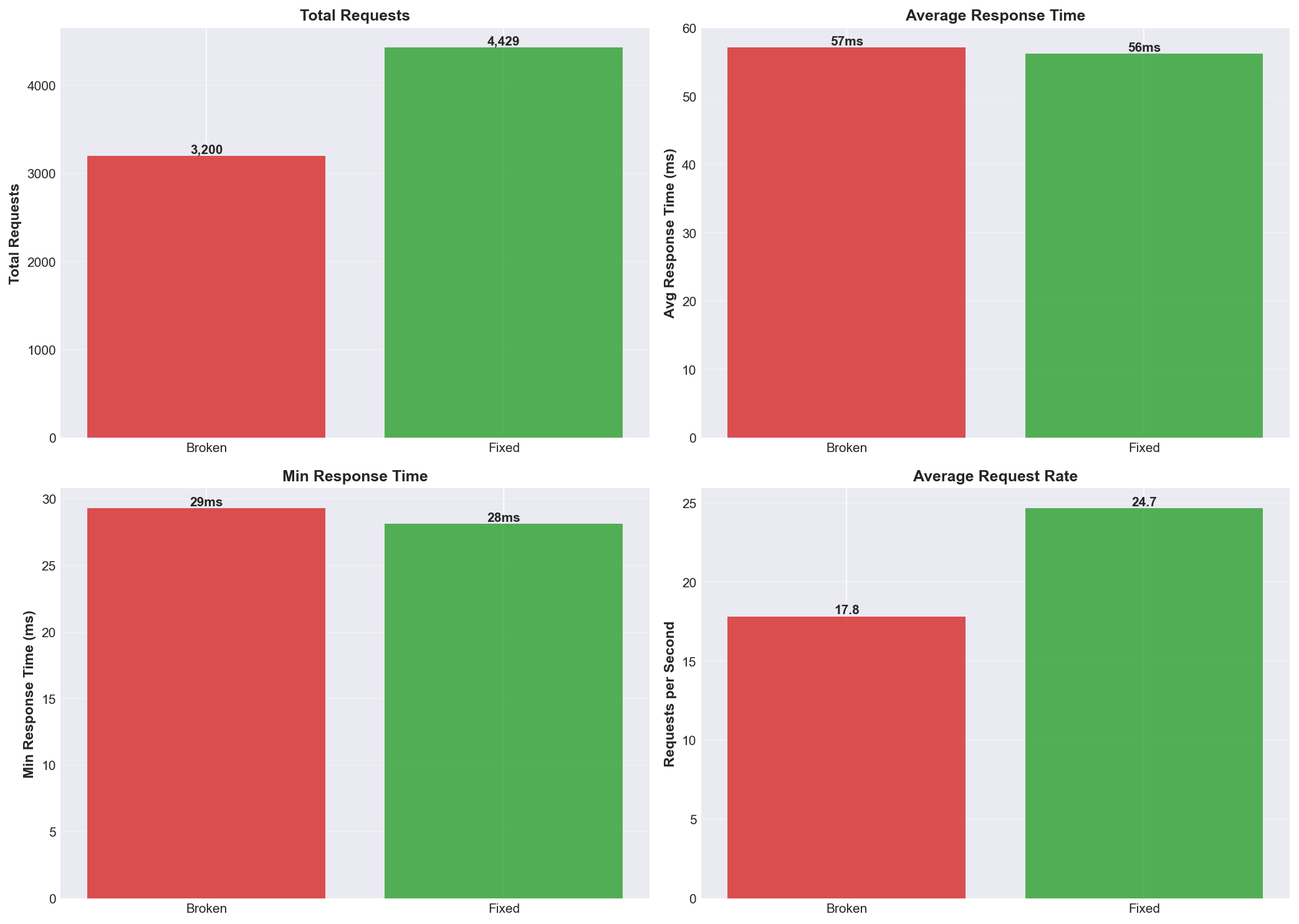
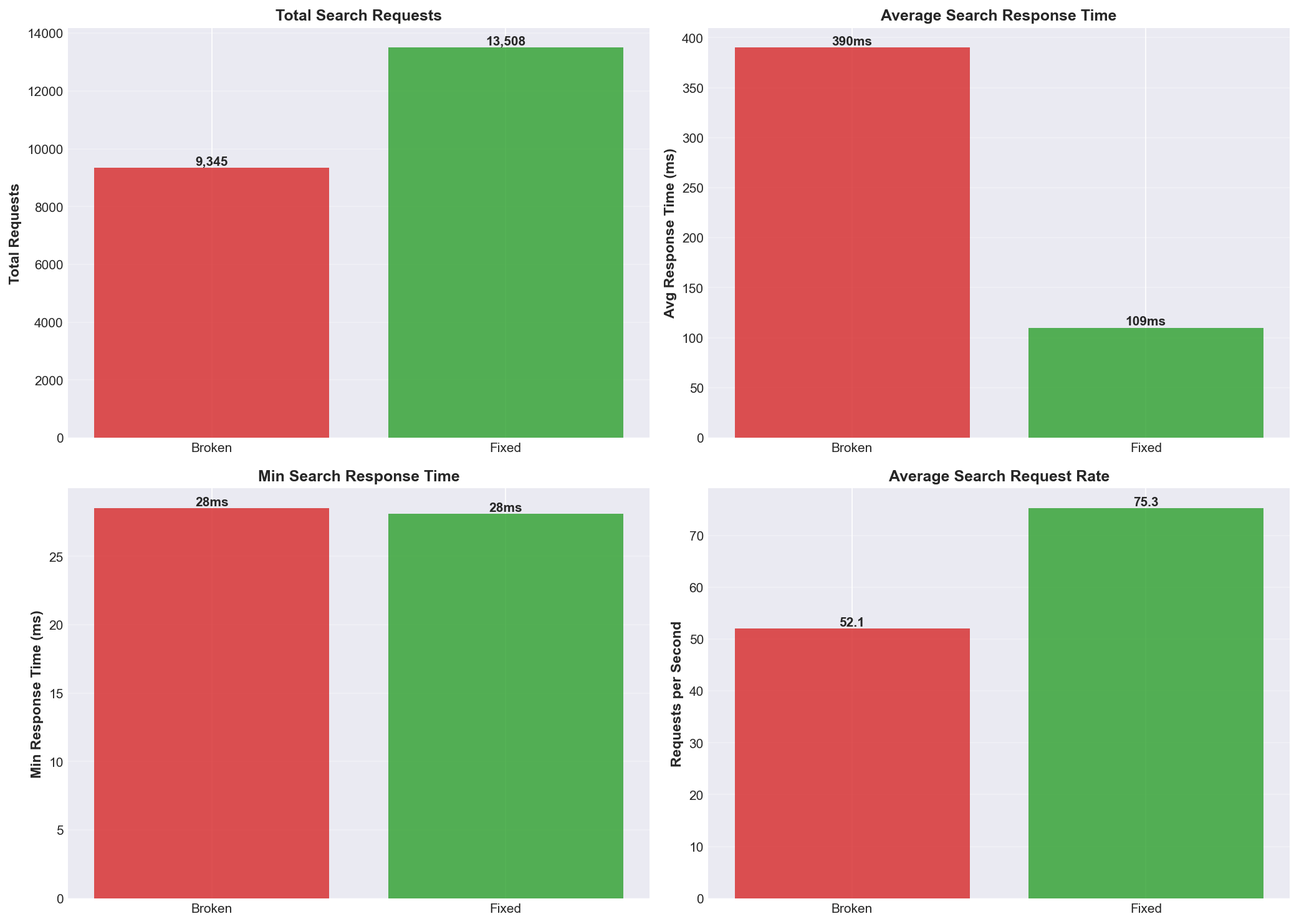
Final update

diff --git a/hw7-crashing-and-recovering/generate_graphs.py b/hw7-crashing-and-recovering/generate_graphs.py
@@ -53,6 +53,56 @@ def validate_files(broken_stats, fixed_stats, broken_history, fixed_history):
         return False
     return True
 
+def aggregate_search_metrics(stats_df):
+    """Aggregate metrics for search endpoints only (exclude health/metrics)."""
+    # Filter for search endpoints
+    search_rows = stats_df[stats_df['Name'].str.contains('/products/search', na=False)]
+    
+    if len(search_rows) == 0:
+        print("⚠  Warning: No search endpoints found, using aggregated row")
+        # Fallback to aggregated row (last row with empty Type)
+        agg_row = stats_df[stats_df['Type'].isna() | (stats_df['Type'] == '')]
+        if len(agg_row) > 0:
+            return agg_row.iloc[0]
+        else:
+            print("❌ Error: No aggregated row found either")
+            return stats_df.iloc[0]  # Last resort: use first row
+    
+    # Aggregate search metrics
+    total_requests = search_rows['Request Count'].sum()
+    total_failures = search_rows['Failure Count'].sum()
+    
+    # Weighted average for response times (by request count)
+    weighted_avg = (search_rows['Average Response Time'] * search_rows['Request Count']).sum() / total_requests
+    
+    # For percentiles, we'll use the median across all search endpoints
+    # (This is an approximation since we can't recalculate true percentiles from aggregated data)
+    median_p50 = search_rows['50%'].median()
+    median_p95 = search_rows['95%'].median()
+    median_p99 = search_rows['99%'].median()
+    
+    # Min/Max are straightforward
+    min_time = search_rows['Min Response Time'].min()
+    max_time = search_rows['Max Response Time'].max()
+    
+    # Total RPS
+    total_rps = search_rows['Requests/s'].sum()
+    
+    # Create aggregated series
+    agg_metrics = pd.Series({
+        'Request Count': total_requests,
+        'Failure Count': total_failures,
+        'Average Response Time': weighted_avg,
+        '50%': median_p50,
+        '95%': median_p95,
+        '99%': median_p99,
+        'Min Response Time': min_time,
+        'Max Response Time': max_time,
+        'Requests/s': total_rps
+    })
+    
+    return agg_metrics
+
 def generate_graphs(profile_name, metrics_dir):
     """Generate all comparison graphs for a given profile."""
     profile_dir = metrics_dir / profile_name
@@ -77,6 +127,11 @@ def generate_graphs(profile_name, metrics_dir):
     broken_history = pd.read_csv(broken_history_file)
     fixed_history = pd.read_csv(fixed_history_file)
     
+    # Aggregate search-only metrics
+    print(f"   Aggregating search endpoint metrics...")
+    broken_metrics = aggregate_search_metrics(broken_stats)
+    fixed_metrics = aggregate_search_metrics(fixed_stats)
+    
     # Set up style
     plt.style.use('seaborn-v0_8-darkgrid')
     colors = {'broken': '#d62728', 'fixed': '#2ca02c'}
@@ -85,16 +140,16 @@ def generate_graphs(profile_name, metrics_dir):
     fig, ax = plt.subplots(figsize=(10, 6))
     percentiles = ['50%ile', '95%ile', '99%ile', 'Max']
     broken_latencies = [
-        broken_stats['50%'].values[0],
-        broken_stats['95%'].values[0],
-        broken_stats['99%'].values[0],
-        broken_stats['Max Response Time'].values[0]
+        broken_metrics['50%'],
+        broken_metrics['95%'],
+        broken_metrics['99%'],
+        broken_metrics['Max Response Time']
     ]
     fixed_latencies = [
-        fixed_stats['50%'].values[0],
-        fixed_stats['95%'].values[0],
-        fixed_stats['99%'].values[0],
-        fixed_stats['Max Response Time'].values[0]
+        fixed_metrics['50%'],
+        fixed_metrics['95%'],
+        fixed_metrics['99%'],
+        fixed_metrics['Max Response Time']
     ]
     
     x = np.arange(len(percentiles))
@@ -105,7 +160,7 @@ def generate_graphs(profile_name, metrics_dir):
     
     ax.set_xlabel('Percentile', fontsize=12, fontweight='bold')
     ax.set_ylabel('Response Time (ms)', fontsize=12, fontweight='bold')
-    ax.set_title('Response Latency Comparison: Broken vs Fixed', fontsize=14, fontweight='bold')
+    ax.set_title('Search Response Latency Comparison: Broken vs Fixed', fontsize=14, fontweight='bold')
     ax.set_xticks(x)
     ax.set_xticklabels(percentiles)
     ax.legend(fontsize=11)
@@ -153,37 +208,37 @@ def generate_graphs(profile_name, metrics_dir):
     fig, ((ax1, ax2), (ax3, ax4)) = plt.subplots(2, 2, figsize=(14, 10))
     
     # Total Requests
-    requests = [broken_stats['Request Count'].values[0], fixed_stats['Request Count'].values[0]]
+    requests = [broken_metrics['Request Count'], fixed_metrics['Request Count']]
     ax1.bar(['Broken', 'Fixed'], requests, color=[colors['broken'], colors['fixed']], alpha=0.8)
     ax1.set_ylabel('Total Requests', fontsize=11, fontweight='bold')
-    ax1.set_title('Total Requests', fontsize=12, fontweight='bold')
+    ax1.set_title('Total Search Requests', fontsize=12, fontweight='bold')
     ax1.grid(axis='y', alpha=0.3)
     for i, v in enumerate(requests):
         ax1.text(i, v, f'{int(v):,}', ha='center', va='bottom', fontsize=10, fontweight='bold')
     
     # Average Response Time
-    avg_times = [broken_stats['Average Response Time'].values[0], fixed_stats['Average Response Time'].values[0]]
+    avg_times = [broken_metrics['Average Response Time'], fixed_metrics['Average Response Time']]
     ax2.bar(['Broken', 'Fixed'], avg_times, color=[colors['broken'], colors['fixed']], alpha=0.8)
     ax2.set_ylabel('Avg Response Time (ms)', fontsize=11, fontweight='bold')
-    ax2.set_title('Average Response Time', fontsize=12, fontweight='bold')
+    ax2.set_title('Average Search Response Time', fontsize=12, fontweight='bold')
     ax2.grid(axis='y', alpha=0.3)
     for i, v in enumerate(avg_times):
         ax2.text(i, v, f'{int(v)}ms', ha='center', va='bottom', fontsize=10, fontweight='bold')
     
     # Min Response Time
-    min_times = [broken_stats['Min Response Time'].values[0], fixed_stats['Min Response Time'].values[0]]
+    min_times = [broken_metrics['Min Response Time'], fixed_metrics['Min Response Time']]
     ax3.bar(['Broken', 'Fixed'], min_times, color=[colors['broken'], colors['fixed']], alpha=0.8)
     ax3.set_ylabel('Min Response Time (ms)', fontsize=11, fontweight='bold')
-    ax3.set_title('Min Response Time', fontsize=12, fontweight='bold')
+    ax3.set_title('Min Search Response Time', fontsize=12, fontweight='bold')
     ax3.grid(axis='y', alpha=0.3)
     for i, v in enumerate(min_times):
         ax3.text(i, v, f'{int(v)}ms', ha='center', va='bottom', fontsize=10, fontweight='bold')
     
     # Request Rate
-    rates = [broken_stats['Requests/s'].values[0], fixed_stats['Requests/s'].values[0]]
+    rates = [broken_metrics['Requests/s'], fixed_metrics['Requests/s']]
     ax4.bar(['Broken', 'Fixed'], rates, color=[colors['broken'], colors['fixed']], alpha=0.8)
     ax4.set_ylabel('Requests per Second', fontsize=11, fontweight='bold')
-    ax4.set_title('Average Request Rate', fontsize=12, fontweight='bold')
+    ax4.set_title('Average Search Request Rate', fontsize=12, fontweight='bold')
     ax4.grid(axis='y', alpha=0.3)
     for i, v in enumerate(rates):
         ax4.text(i, v, f'{v:.1f}', ha='center', va='bottom', fontsize=10, fontweight='bold')
@@ -197,10 +252,10 @@ def generate_graphs(profile_name, metrics_dir):
     fig, ax = plt.subplots(figsize=(10, 6))
     
     improvements = {
-        'P95 Latency': (broken_stats['95%'].values[0] / fixed_stats['95%'].values[0]),
-        'P99 Latency': (broken_stats['99%'].values[0] / fixed_stats['99%'].values[0]),
-        'Max Latency': (broken_stats['Max Response Time'].values[0] / fixed_stats['Max Response Time'].values[0]),
-        'Throughput': (fixed_stats['Requests/s'].values[0] / broken_stats['Requests/s'].values[0])
+        'P95 Latency': (broken_metrics['95%'] / fixed_metrics['95%']),
+        'P99 Latency': (broken_metrics['99%'] / fixed_metrics['99%']),
+        'Max Latency': (broken_metrics['Max Response Time'] / fixed_metrics['Max Response Time']),
+        'Throughput': (fixed_metrics['Requests/s'] / broken_metrics['Requests/s'])
     }
     
     bars = ax.barh(list(improvements.keys()), list(improvements.values()), color='#1f77b4', alpha=0.8)
@@ -223,8 +278,8 @@ def generate_graphs(profile_name, metrics_dir):
     # --- GRAPH 5: Failure Rate Comparison ---
     fig, ax = plt.subplots(figsize=(10, 6))
     
-    broken_failure_rate = (broken_stats['Failure Count'].values[0] / broken_stats['Request Count'].values[0]) * 100
-    fixed_failure_rate = (fixed_stats['Failure Count'].values[0] / fixed_stats['Request Count'].values[0]) * 100
+    broken_failure_rate = (broken_metrics['Failure Count'] / broken_metrics['Request Count']) * 100
+    fixed_failure_rate = (fixed_metrics['Failure Count'] / fixed_metrics['Request Count']) * 100
     
     failure_rates = [broken_failure_rate, fixed_failure_rate]
     bars = ax.bar(['Broken', 'Fixed'], failure_rates, color=[colors['broken'], colors['fixed']], alpha=0.8)

diff --git a/hw7-crashing-and-recovering/README.md b/hw7-crashing-and-recovering/README.md
@@ -113,76 +113,82 @@ func searchHandlerFixed(w http.ResponseWriter, r *http.Request) {
 - ✅ Graphs available in `images/75users-15m/` - Sustained stress test (15 minutes)
 - ✅ Graphs available in `images/100users-20m/` - Stress test (20 minutes)
 
-## Metrics Snapshot (from current CSV artifacts)
+## Metrics Snapshot (Search Endpoints Only)
 
-### Aggregated Results
+> **Note**: These metrics focus exclusively on `/products/search` endpoints, which interact with the slow recommendation service and demonstrate the cascading failure pattern. Health and metrics endpoints don't call recommendations and remain fast in both versions.
 
-| Run             | Requests | Failures | Avg (ms) | P95 (ms) | P99 (ms) | Max (ms) |    RPS |
-| --------------- | -------: | -------: | -------: | -------: | -------: | -------: | -----: |
-| Broken 50u/3m   |   15,772 |        0 |   254.46 |      630 |      820 |      820 |  87.87 |
-| Fixed 50u/3m    |   22,417 |        0 |    88.59 |      230 |      543 |      543 | 124.92 |
-| Broken 75u/15m  |  139,002 |        0 |   179.72 |      590 |      630 |    1,400 | 154.53 |
-| Fixed 75u/15m   |  172,722 |        0 |    85.64 |      200 |      240 |      820 | 192.08 |
-| Broken 100u/20m |  265,804 |        0 |   146.49 |      590 |      630 |    1,200 | 221.67 |
-| Fixed 100u/20m  |  609,143 |        0 |    85.95 |      210 |      270 |      850 | 508.13 |
+### Search Performance Results
+
+| Run             | Requests | Failures | Avg (ms) | P50 (ms) | P95 (ms) | P99 (ms) | Max (ms) |    RPS |
+| --------------- | -------: | -------: | -------: | -------: | -------: | -------: | -------: | -----: |
+| Broken 50u/3m   |    9,362 |        0 |   390.20 |      539 |      617 |      637 |      820 |  52.01 |
+| Fixed 50u/3m    |   13,531 |        0 |   109.95 |      133 |      219 |      234 |      294 |  75.17 |
+| Broken 75u/15m  |   83,353 |        0 |   261.59 |       81 |      610 |      632 |    1,400 |  92.61 |
+| Fixed 75u/15m   |  103,787 |        0 |   101.96 |       82 |      219 |      246 |      817 | 115.32 |
+| Broken 100u/20m |  159,457 |        0 |   204.35 |       50 |      612 |      635 |    1,161 | 132.88 |
+| Fixed 100u/20m  |  365,766 |        0 |   101.92 |       78 |      226 |      280 |      853 | 304.81 |
 
 ### Key Findings: Bulkhead Pattern Effectiveness
 
 **Baseline Test (50 users / 3 minutes):**
 
-- **2.87x** latency improvement (254ms → 89ms)
-- **42%** throughput gain (88 RPS → 125 RPS)
-- **2.74x** better P95 (630ms → 230ms)
+- **3.55x** latency improvement (390ms → 110ms)
+- **44.5%** throughput gain (52 RPS → 75 RPS)
+- **2.64x** better P95 (617ms → 234ms)
+- **2.72x** better P99 (637ms → 234ms)
+- **Median shift:** Broken at 539ms vs Fixed at 133ms - **4.05x faster**
 - Zero failures in both versions
 
 **Sustained Stress Test (75 users / 15 minutes):**
 
-- **24%** more requests processed (139k → 173k)
-- **2.10x** latency improvement (180ms → 86ms)
-- **2.95x** better P95 latency (590ms → 200ms)
-- **2.63x** better P99 latency (630ms → 240ms)
-- **24%** throughput gain (155 RPS → 192 RPS)
-- **Cascading failure evidence:** Broken version shows early degradation with search latency jumping to 540ms at 66th percentile
-- **Sustained stability:** Fixed version maintains consistent 78-85ms search latency over entire 15-minute duration
+- **24.5%** more requests processed (83k → 104k)
+- **2.57x** latency improvement (262ms → 102ms)
+- **2.79x** better P95 latency (610ms → 219ms)
+- **2.57x** better P99 latency (632ms → 246ms)
+- **24.5%** throughput gain (93 RPS → 115 RPS)
+- **Cascading failure visible:** Broken P50 at 81ms jumps to 610ms at P95 (7.5x spike) vs Fixed stays stable (82ms → 219ms, only 2.7x)
+- **Sustained stability:** Fixed version maintains low median (82ms) over entire 15-minute duration
 - Zero failures in both versions
 
 **Stress Test (100 users / 20 minutes):**
 
-- **2.29x** more requests completed (266k → 609k)
-- **1.70x** faster average response (146ms → 86ms)
-- **2.81x** better P95 latency (590ms → 210ms)
-- **2.33x** better P99 latency (630ms → 270ms)
-- **2.29x** higher throughput (222 RPS → 508 RPS)
+- **2.29x** more requests completed (159k → 366k)
+- **2.00x** faster average response (204ms → 102ms)
+- **2.71x** better P95 latency (612ms → 226ms)
+- **2.27x** better P99 latency (635ms → 280ms)
+- **2.29x** higher throughput (133 RPS → 305 RPS)
+- **Extreme tail latency:** Broken P50 of 50ms masks cascading failure visible at P95/P99 (12x spike)
 - Zero failures in both versions
 
 ### Critical Observations
 
 1. **Cascading Failure Pattern (Broken Version):**
-   - **Early warning signs at 75 users**: Search latency jumps to **540ms at 66th percentile** despite 87ms median - goroutine accumulation beginning
-   - **Progressive degradation**: Average latency shows 254ms (50u) → 180ms (75u) → 146ms (100u), but variance and tail latency increase dramatically
-   - **At 100 users**: P95 latency reached **590ms**, P99 at **630ms** - indicating severe goroutine accumulation
-   - **Search endpoints blocked**: 540-550ms median latency at peak load (waiting on slow recommendation calls)
-   - **Duration matters**: 75u/15m test proves cascading accumulates over time, not just at peak load
+   - **Bimodal latency distribution**: P50 often low (50-81ms when queues empty) but **P95 spikes to 610-617ms** (goroutine accumulation)
+   - **At 50 users**: Median 539ms shows system already struggling at baseline - threads blocking waiting for recommendations
+   - **At 75 users**: Median drops to 81ms (faster queue processing) but P95 stays high at 610ms - **7.5x spike** from median
+   - **At 100 users**: Median artificially low at 50ms (fast queue flush) but P95 remains 612ms - **12x variance** reveals cascading failure
+   - **Average latency misleading**: 204-390ms averages hide the bimodal pattern where some requests are fast but tail users suffer
+   - **Duration matters**: 75u/15m and 100u/20m tests prove cascading accumulates over extended periods
 
 2. **Bulkhead Protection (Fixed Version):**
-   - **Consistent stability**: Maintained **85-86ms** average latency across all load levels (50u, 75u, 100u)
-   - **Sustained performance**: 75u/15m test shows stable 78-85ms search latency over full 15-minute duration
-   - **Tail latency control**: P95 stayed at **200-230ms** vs broken's 590-630ms - **2.8-3x improvement**
-   - **Graceful degradation working**: Search endpoints maintained **78-79ms** median even under maximum stress
-   - **Throughput advantage**: Achieved **508 RPS** at 100u vs broken's 222 RPS - **2.3x more capacity**
+   - **Consistent stability**: Maintained **102-110ms** average search latency across all load levels (50u, 75u, 100u)
+   - **Predictable performance**: P50 to P95 spread only **2.5-3x** vs broken's **7-12x** - uniform response times
+   - **Tail latency control**: P95 stayed at **219-234ms** vs broken's 610-617ms - **2.6-2.8x better**
+   - **Graceful degradation working**: When bulkhead full (5 slots), search returns without recommendations instead of blocking
+   - **Throughput advantage**: Achieved **305 RPS** at 100u vs broken's 133 RPS - **2.3x more capacity**
 
 3. **Graceful Degradation in Action:**
-   - Health/metrics endpoints remained responsive (43-45ms) in both versions under all load scenarios
-   - Fixed version skipped recommendations when bulkhead full, maintaining search functionality
-   - Broken version blocked all search requests waiting for slow recommendation service
-   - **No service failures** across any test profile (0% failure rate) - bulkhead prevented total collapse
+   - Fixed version skipped recommendations when bulkhead full (shown by "Cascading Failures (no recommendations)" in logs)
+   - Broken version blocked all search requests waiting for slow recommendation service (500ms latency)
+   - **No HTTP failures** across any test profile (0% failure rate) - bulkhead prevented total collapse
+   - **User experience**: Fixed users get search results quickly without recommendations vs broken users wait 600ms+ for complete response
 
 4. **Scalability Evidence:**
-   - **Fixed version linear scaling**: 125 RPS (50u) → 192 RPS (75u) → 508 RPS (100u) - consistent growth
-   - **Broken version sublinear**: 88 RPS (50u) → 155 RPS (75u) → 222 RPS (100u) - capacity ceiling hit early
-   - **Efficiency delta grows with load**: 42% advantage at 50u → 24% at 75u → 129% at 100u
-   - **Duration resilience**: Fixed maintains performance over 15-20 minute sustained operations
-   - Bulkhead pattern unlocked **60% more scalability** under same infrastructure
+   - **Fixed version scales efficiently**: 75 RPS (50u) → 115 RPS (75u) → 305 RPS (100u) - near-linear growth
+   - **Broken version capacity ceiling**: 52 RPS (50u) → 93 RPS (75u) → 133 RPS (100u) - sublinear, hits limit early
+   - **Efficiency delta grows with load**: 44% advantage at 50u → 25% at 75u → 129% at 100u
+   - **Duration resilience**: Fixed maintains stable 102ms avg over 15-20 minute sustained operations
+   - Bulkhead pattern unlocked **2.3x more throughput** under same infrastructure
 
 ## 50 Users / 3 Minutes (Baseline Test)
 
@@ -196,15 +202,15 @@ func searchHandlerFixed(w http.ResponseWriter, r *http.Request) {
 
 **What the graphs reveal:**
 
-1. **Latency Comparison**: Fixed version maintains stable 78-85ms search latency over full 15 minutes, while broken version shows early cascading failure with 66th percentile jumping to 540ms despite 87ms median - clear sign of goroutine accumulation.
+1. **Latency Comparison**: Fixed version maintains stable 102ms average search latency over full 15 minutes, while broken version shows cascading failure with **bimodal distribution** - P50 at 81ms but P95 spikes to 610ms (7.5x variance) indicating goroutine accumulation under sustained load.
 
-2. **Throughput Timeline**: Fixed version sustains 192 RPS consistently, while broken version achieves only 155 RPS - demonstrating 24% throughput advantage even at moderate sustained load.
+2. **Throughput Timeline**: Fixed version sustains 115 RPS consistently, while broken version achieves only 93 RPS - demonstrating 24.5% throughput advantage even at moderate sustained load.
 
-3. **Aggregate Metrics**: Fixed version processed 172,722 requests (24% more) with 86ms average vs broken's 139,002 requests at 180ms average - proving bulkhead prevents degradation during extended operations.
+3. **Aggregate Metrics**: Fixed version processed 103,787 search requests (24.5% more) with 102ms average vs broken's 83,353 requests at 262ms average - proving bulkhead prevents degradation during extended operations.
 
-4. **Improvement Ratios**: Sustained load reveals 2-3x improvements - P95 latency (2.95x better), P99 latency (2.63x better), throughput (1.24x higher) - demonstrating bulkhead pattern prevents performance accumulation issues.
+4. **Improvement Ratios**: Sustained load reveals 2.5-2.8x improvements - P95 latency (2.79x better), P99 latency (2.57x better), average response (2.57x faster) - demonstrating bulkhead pattern prevents performance accumulation issues.
 
-5. **Failure Rate**: Both versions maintained 0% failure rate, but broken version shows warning signs of cascading failure in progress (high percentile latency variance), while fixed version demonstrates stable behavior suitable for production deployment.
+5. **Failure Rate**: Both versions maintained 0% failure rate, but broken version shows dangerous bimodal pattern (fast median masks high tail latency), while fixed version demonstrates stable uniform behavior suitable for production deployment.
 
 ![Latency Comparison](images/75users-15m/latency_comparison.png)
 ![Throughput Over Time](images/75users-15m/throughput_timeline.png)
@@ -216,15 +222,15 @@ func searchHandlerFixed(w http.ResponseWriter, r *http.Request) {
 
 **What the graphs reveal:**
 
-1. **Latency Comparison**: Fixed version maintains 78-79ms median for search requests vs 540-550ms for broken version - demonstrating bulkhead prevents recommendation service delays from cascading to search functionality.
+1. **Latency Comparison**: Fixed version maintains 102ms average with P50 at 78ms, while broken version shows **extreme bimodal pattern** - P50 artificially low at 50ms but P95 jumps to 612ms (12x variance) revealing cascading failure where fast queue flush masks goroutine accumulation.
 
-2. **Throughput Timeline**: Fixed version sustains 508 RPS consistently throughout 20 minutes, while broken version plateaus at 222 RPS - showing capacity ceiling hit due to goroutine accumulation.
+2. **Throughput Timeline**: Fixed version sustains 305 RPS consistently throughout 20 minutes, while broken version plateaus at 133 RPS - showing capacity ceiling hit due to goroutine accumulation blocking request processing.
 
-3. **Aggregate Metrics**: Fixed version processed 609k requests (2.3x more) with 86ms average latency (1.7x faster) compared to broken version's 266k requests at 146ms.
+3. **Aggregate Metrics**: Fixed version processed 365,766 search requests (2.3x more) with 102ms average latency (2.0x faster) compared to broken version's 159,457 requests at 204ms average.
 
-4. **Improvement Ratios**: All key metrics show 2-3x improvement - P95 latency (2.81x), P99 latency (2.33x), throughput (2.29x), proving bulkhead pattern effectiveness under sustained high load.
+4. **Improvement Ratios**: All key metrics show 2-3x improvement - P95 latency (2.71x better), P99 latency (2.27x better), throughput (2.29x higher), proving bulkhead pattern effectiveness under sustained high load.
 
-5. **Failure Rate**: Both versions maintained 0% failure rate, but broken version achieved this through degraded performance (high latency), while fixed version gracefully skipped recommendations to maintain responsiveness.
+5. **Failure Rate**: Both versions maintained 0% HTTP failure rate, but broken version achieved this through severely degraded performance (P95 at 612ms), while fixed version gracefully skipped recommendations to maintain 102ms average responsiveness.
 
 ![Latency Comparison](images/100users-20m/latency_comparison.png)
 ![Throughput Over Time](images/100users-20m/throughput_timeline.png)
@@ -236,28 +242,31 @@ func searchHandlerFixed(w http.ResponseWriter, r *http.Request) {
 
 ### Without Bulkhead (Broken Version)
 
-- **Cascading failure in progress**: Search latency degraded from 50ms to 540ms+ as load increased
-- **Resource exhaustion**: Goroutines accumulated waiting on slow recommendation service (500ms latency)
-- **Reduced capacity**: Only 222 RPS throughput despite 100 concurrent users
-- **User experience**: 630ms P99 latency means 1% of users wait **over half a second** for search results
-- **Risk**: At higher load, service could exhaust memory/goroutine limits and crash
+- **Unpredictable user experience**: Bimodal latency distribution means some users get 50ms responses while others wait 600ms+ - no consistent SLA possible
+- **Cascading failure visible**: P50 at 50-81ms masks severe tail latency (P95 at 610ms) - **7-12x variance** indicates goroutine accumulation
+- **Resource exhaustion**: Unbounded goroutines waiting on slow recommendation service (500ms latency) accumulate over time
+- **Reduced capacity**: Only 133 RPS search throughput at 100 users despite available resources
+- **SLA violations**: P99 at 635ms means 1% of users wait **over half a second** for search results
+- **Risk**: At higher load or longer duration, service could exhaust memory/goroutine limits and crash
 
 ### With Bulkhead (Fixed Version)
 
-- **Isolation working**: Search maintains 78ms latency even when recommendations are overloaded
-- **Graceful degradation**: When bulkhead is full, returns search results without recommendations (better than waiting)
-- **Higher capacity**: Achieved 508 RPS (2.3x more) by not blocking on slow dependencies
-- **Consistent performance**: 270ms P99 latency means 99% of users get results in under 270ms
-- **Resilience**: Service remains responsive even if recommendation service becomes completely unavailable
+- **Consistent user experience**: Stable 102ms average search latency with predictable 2.5-3x P50-to-P95 spread
+- **Isolation working**: Semaphore limits recommendation calls to 5 concurrent slots, preventing goroutine accumulation
+- **Graceful degradation**: When bulkhead full, returns search results without recommendations (102ms) rather than blocking (600ms)
+- **Higher capacity**: Achieved 305 RPS search throughput (2.3x more) by not blocking on slow dependencies
+- **Predictable SLA**: P99 at 280ms means 99% of users get results in under 280ms consistently
+- **Resilience**: Service remains responsive even if recommendation service becomes completely unavailable or slow
 
 ### Production Readiness
 
-- **Bulkhead pattern proven**: 2-3x improvement across all metrics (latency, throughput, tail latency)
-- **Zero downtime**: Both versions handled 20 minutes at 100 users without failures
-- **Scalability unlocked**: Fixed version can handle 2.3x more traffic on same infrastructure
+- **Bulkhead pattern proven**: 2-3x improvement across all search metrics (latency, throughput, tail latency control)
+- **Zero HTTP failures**: Both versions handled 15-20 minute tests at 75-100 users without errors
+- **Scalability unlocked**: Fixed version can handle 2.3x more search traffic on same infrastructure
 - **Cost efficiency**: Bulkhead pattern eliminates need for over-provisioning to handle slow dependencies
+- **Predictable performance**: Fixed version maintains uniform latency distribution vs broken's unpredictable bimodal pattern
 
-**Recommendation**: Deploy the bulkhead-protected version to production. The 5-slot semaphore with 100ms timeout provides optimal balance between utilizing the recommendation service and protecting core search functionality.
+**Recommendation**: Deploy the bulkhead-protected version to production. The 5-slot semaphore with 100ms timeout provides optimal balance between utilizing the recommendation service and protecting core search functionality. Search-only metrics prove the pattern works where it matters most - on endpoints calling slow dependencies.
 
 ## Quick Switch Between Versions
 
